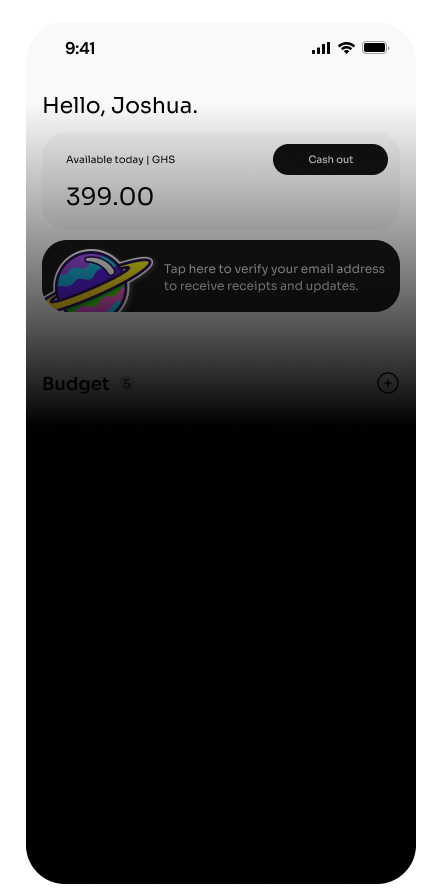
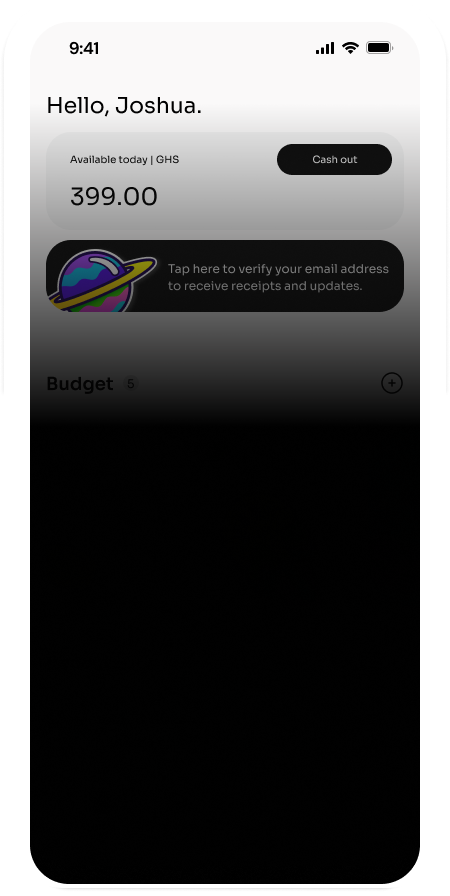
update page 2

diff --git a/src/app/home/features.tsx b/src/app/home/features.tsx
@@ -1,0 +1,145 @@
+// import { stylesWithCssVar } from "@/utils/motion";
+"use client"
+import { useScroll, useTransform, motion } from "framer-motion";
+import Image from "next/image";
+import Lenis from '@studio-freight/lenis'
+
+import { useEffect, useRef } from "react";
+import { FeatureBg, IndexPhone ,CreateBudget ,Processing ,TopUp} from "../../../public/images";
+
+
+export const Features = () => {
+  const targetRef = useRef<HTMLDivElement | null>(null);
+  const { scrollYProgress } = useScroll({
+    target: targetRef,
+    // offset: ["end start", "end start"],
+  });
+
+  const scale = useTransform(scrollYProgress, [0, 0.9, 1], [0.8, 0.8, 1]);
+  // const x = useTransform(scrollYProgress, [0.3, 1], ["50%", "0%"]);
+  const opacity = useTransform(
+    scrollYProgress,
+    [0, 0.5, 0.6, 0.85, 0.9],
+    [1, 1, 0.4, 0.4, 1]
+  );
+
+  const text1Opacity = useTransform(
+    scrollYProgress,
+    [0.3, 0.4, 0.5],
+    [0, 1, 0]
+  );
+  const text1Y = useTransform(
+    scrollYProgress,
+    [0.3, 0.4, 0.5],
+    ["30px", "0px", "-30px"]
+  );
+
+  const text2Opacity = useTransform(
+    scrollYProgress,
+    [0.5, 0.6, 0.7],
+    [0, 1, 0]
+  );
+  const text2Y = useTransform(
+    scrollYProgress,
+    [0.5, 0.6, 0.7],
+    ["30px", "0px", "-30px"]
+  );
+
+  const text3Opacity = useTransform(
+    scrollYProgress,
+    [0.7, 0.8, 0.9],
+    [0, 1, 0]
+  );
+  const text3Y = useTransform(
+    scrollYProgress,
+    [0.7, 0.8, 0.9],
+    ["30px", "0px", "-30px"]
+  );
+  
+  useEffect(()=>{
+    const lenis = new Lenis()
+  
+  // lenis.on('scroll', (e) => {
+  //   console.log(e)
+  // })
+  
+  function raf(time:any) {
+    lenis.raf(time)
+    requestAnimationFrame(raf)
+  }
+  
+  requestAnimationFrame(raf)
+  },[])
+
+  
+  return (
+    <section
+      ref={targetRef}
+      className="flex h-[800vh] flex-col w-full  items-center bg-black justify-start"
+    >
+
+<div className="sticky top-[16.7vh] h-[66.8vh] px-16 text-2xl leading-[1] text-white [&_p]:w-[45rem] [&_p]:max-w-[90%]">
+      <div className="text-white grid grid-col-2 grid-flow-col gap-4  ">
+        <div className=" w-[30vw] h-full rounded-3xl">
+         <motion.p
+          style={({
+            opacity: text1Opacity,
+            // "--y": text1Y,
+          })as any}
+          className=" paraghrap "
+        >
+          <span className="text-primary">Preconfigured environments</span>
+          <br />
+          We detect your environment so you don't need to fiddle with
+          configuration files.
+        </motion.p>
+        <motion.p
+          style={({
+            opacity: text2Opacity,
+            // "--y": text2Y,
+          })as any}
+          className="paraghrap1 "
+        >
+          <span className="text-primary">Command Pallete</span>
+          <br />
+          Access and complete any action in seconds with the command palette.
+        </motion.p>
+        <motion.p
+          style={({
+            opacity: text3Opacity,
+            // "--y": text3Y,
+          })as any}
+          className="paraghrap2 "
+        >
+          <span className="text-primary">Devtools</span>
+          <br />
+          We've bundled useful tools to help you get your work done faster and
+          more efficiently.
+        </motion.p>
+        </div>
+        {/* <div className=" text-black w-[30vw] rounded-3xl"> */}
+          <motion.div style={{  scale }} className="relative h-full">
+          <motion.figure style={{ opacity }} className="h-full">
+            <Image src={CreateBudget} alt="img" className="h-full w-auto" />
+          </motion.figure>
+          <motion.figure style={{ opacity: text2Opacity }}>
+            <Image
+              src={TopUp}
+              className="absolute inset-0 h-full w-auto"
+              alt="img"
+            />
+          </motion.figure>
+          <motion.figure style={{ opacity: text3Opacity }}>
+            <Image
+              src={Processing}
+              className="absolute inset-0 h-full w-auto"
+              alt="img"
+            />
+          </motion.figure>
+        </motion.div>
+        {/* </div> */}
+      </div>
+      </div>
+    </section>
+  );
+};

diff --git a/src/app/home/index.tsx b/src/app/home/index.tsx
@@ -1,18 +1,35 @@
 "use client";
 import Image from "next/image";
-import React, { useRef } from "react";
+import React, { useEffect, useRef } from "react";
 import { BackgroundImg, IndexPhone } from "../../../public/images";
 import { useTransform, useScroll, motion } from "framer-motion";
 import "styled-jsx/style";
 import '../page.scss'
+import Lenis from '@studio-freight/lenis'
+
 
 export const Index = () => {
   const targetRef = useRef<HTMLDivElement>(null);
   const { scrollYProgress } = useScroll();
 
-  const opacity = useTransform(scrollYProgress, [0, 0.2], [1, 0]);
-  const scale = useTransform(scrollYProgress, [0, 1], [1, 3.2]);
-  // Adjust the range and values as needed for your desired fade-out effect
+  const opacity = useTransform(scrollYProgress, [0, 0.1], [1, 0]);
+  const opacity2 = useTransform(scrollYProgress, [0, 0.1], [1, 0.0]);
+  const scale = useTransform(scrollYProgress, [0, 1], [1, 6.5]);
+    // const x = useTransform(scrollYProgress, [0.3, 1], ["50%", "50%"]);
+useEffect(()=>{
+  const lenis = new Lenis()
+
+// lenis.on('scroll', (e) => {
+//   console.log(e)
+// })
+
+function raf(time:any) {
+  lenis.raf(time)
+  requestAnimationFrame(raf)
+}
+
+requestAnimationFrame(raf)
+},[])
 
   return (
     <>
@@ -20,8 +37,8 @@ export const Index = () => {
         <div className="relative w-screen h-[100vh] wrapper">
           <motion.div
             className="absolute mobile-div"
-            style={{ scale }}
-            initial={false} // Set initial to false to start with the scale at 1
+            style={{ scale,opacity : opacity2}}
+            initial={false} 
             animate={{ scale: 1 }}
           >
             <Image alt="mobile" src={IndexPhone} className="mobile"></Image>
@@ -29,7 +46,6 @@ export const Index = () => {
           <motion.div
             style={{ opacity }}
             ref={targetRef}
-            // Use style prop instead of placing directly inside motion.div
           >
             <Image
               alt="bg"
@@ -41,11 +57,11 @@ export const Index = () => {
           <motion.div
             style={{ opacity }}
             ref={targetRef}
-            className="absolute text-center mt-24 text-white top-1/2 left-1/2 transform -translate-x-1/2 -translate-y-1/2"
+            className="absolute text-center mt-24 text-div text-white top-1/2 left-1/2 transform -translate-x-1/2 -translate-y-1/2"
           >
             <p className="index-page-header">
               Pay yourself
-              <span className="font-medium">anytime, any day!</span>
+              <span className="font-medium"> anytime, any day!</span>
             </p>
             <p className="index-page-sub-header">
               Enjoy life while sticking to your budget with Chopmoney. Whether
@@ -63,9 +79,10 @@ export const Index = () => {
           </motion.div>
         </div>
       </motion.section>
-      <section className="w-full h-screen bg-black">
+      {/* <section className="w-full h-screen bg-black">
         <div className="h-screen">check if this is working</div>
-      </section>
+      </section> */}
     </>
   );
 };
+

diff --git a/src/app/page.scss b/src/app/page.scss
@@ -22,7 +22,9 @@ margin-top:5%;
 .mobile {
   object-fit: contain;
   height: 800px;
-  width: 370px;
+  width: 350px;
+  margin-top:-20%;
+
 }
 
 .btn-link {
@@ -41,10 +43,33 @@ margin-top:5%;
 .index-page-sub-header{
     width:650px;
     font-weight: 200;
+    padding-bottom:50px;
 }
 
 .mobile-div{
   top:13%;
-  left:40%;
+ left:40%;
 
+}
+
+.text-div{
+  // height:450px;
+  opacity: 1;
+// background: black;
+padding-bottom:50px;
+}
+
+.paraghrap{
+  padding-top:60%;
+  padding-left:5%;
+}
+
+.paraghrap1{
+  margin-top:-10%;
+  padding-left:5%;
+}
+
+.paraghrap2{
+  margin-top:-15%;
+  padding-left:5%;
 }

diff --git a/public/images/index.ts b/public/images/index.ts
@@ -1,2 +1,7 @@
 export {default as BackgroundImg}  from './bg.png'
 export {default as IndexPhone}  from './screen-n-overlay.png'
+export {default as Phone1}  from './phone1.png'
+export {default as TopUp}  from './Topup.png'
+export {default as CreateBudget}  from './Createbudget.png'
+export {default as Processing}  from './Processing.png'
+export {default as FeatureBg}  from './featurebg.png'

diff --git a/src/app/page.tsx b/src/app/page.tsx
@@ -1,4 +1,5 @@
 import { Index } from "./home";
+import { Features } from "./home/features";
 
 
 
@@ -6,6 +7,7 @@ export default function Home() {
   return (
     <main className="flex min-h-screen flex-col items-center justify-between ">
       <Index />
+      <Features/>
     </main>
   );
 }
